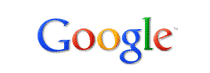
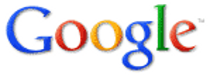
Adjust sponsor image size

diff --git a/public/css/onepage.css b/public/css/onepage.css
@@ -179,7 +179,7 @@ textarea:-moz-placeholder { color:#444; opacity: 0.4; }
 
 #sponsors h2 {
     text-align: center;
-    font-size: 2.4em;
+    font-size: 2.0em;
     color: white;
     text-shadow: 3px 3px 0 #000,
      -1px -1px 0 #000,  
@@ -201,7 +201,7 @@ textarea:-moz-placeholder { color:#444; opacity: 0.4; }
 }
 
 #sponsors ul li a {
-    width: 220px;
+    width: 158px;
     overflow: hidden;
     float: right;
     position: relative;
@@ -216,27 +216,29 @@ textarea:-moz-placeholder { color:#444; opacity: 0.4; }
 }
 
 #sponsors .sponsor-image {
-    width: 220px;
-    height: 60px;
-    background-size: 210px 49px;
+    width: 158px;
+    height: 40px;
 }
 
 #sponsors #sponsor-google {
     background: url('../img/sponsor-google.png') no-repeat center;
-    background-size: 210px 73px;
-    height: 74px;
+    background-size: 154px 53px;
+    height: 55px;
 }
 
 #sponsors #sponsor-nemustech {
     background: url('../img/sponsor-nemustech.png') no-repeat center;
+    background-size: 154px 36px;
 }
 
 #sponsors #sponsor-silex {
     background: url('../img/sponsor-silex.png') no-repeat center;
+    background-size: 154px 36px;
 }
 
 #sponsors #sponsor-jinson {
     background: url('../img/sponsor-jinson.gif') no-repeat center;
+    background-size: 154px 36px;
 }
 
 .page-section {
